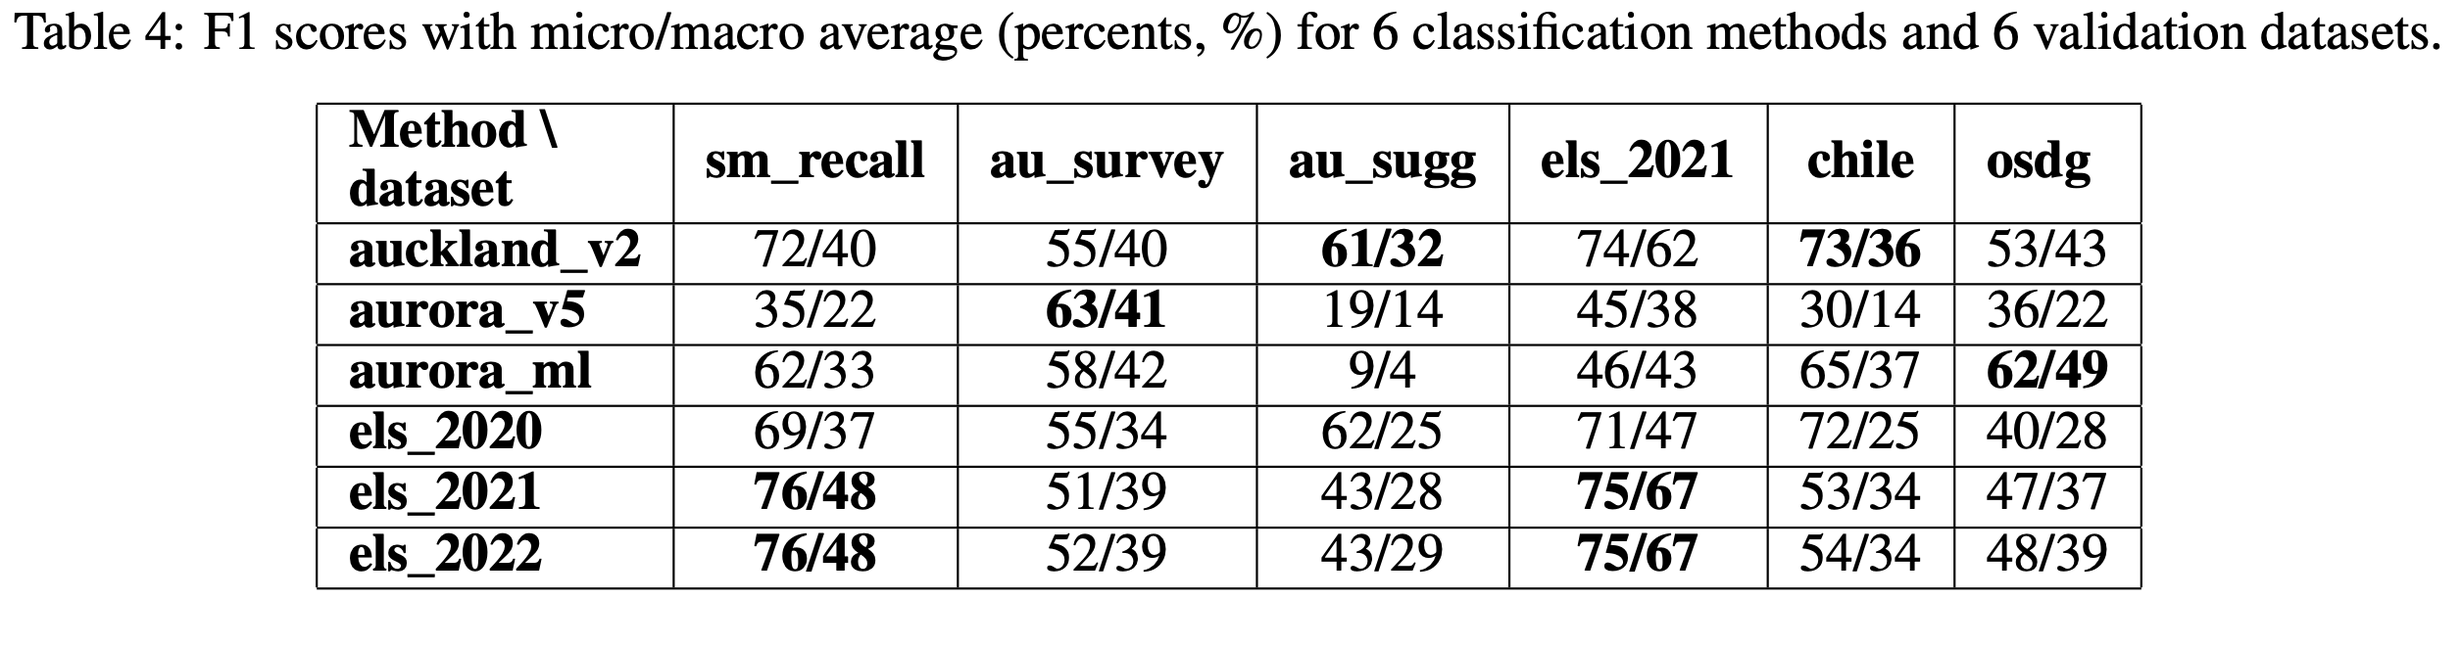
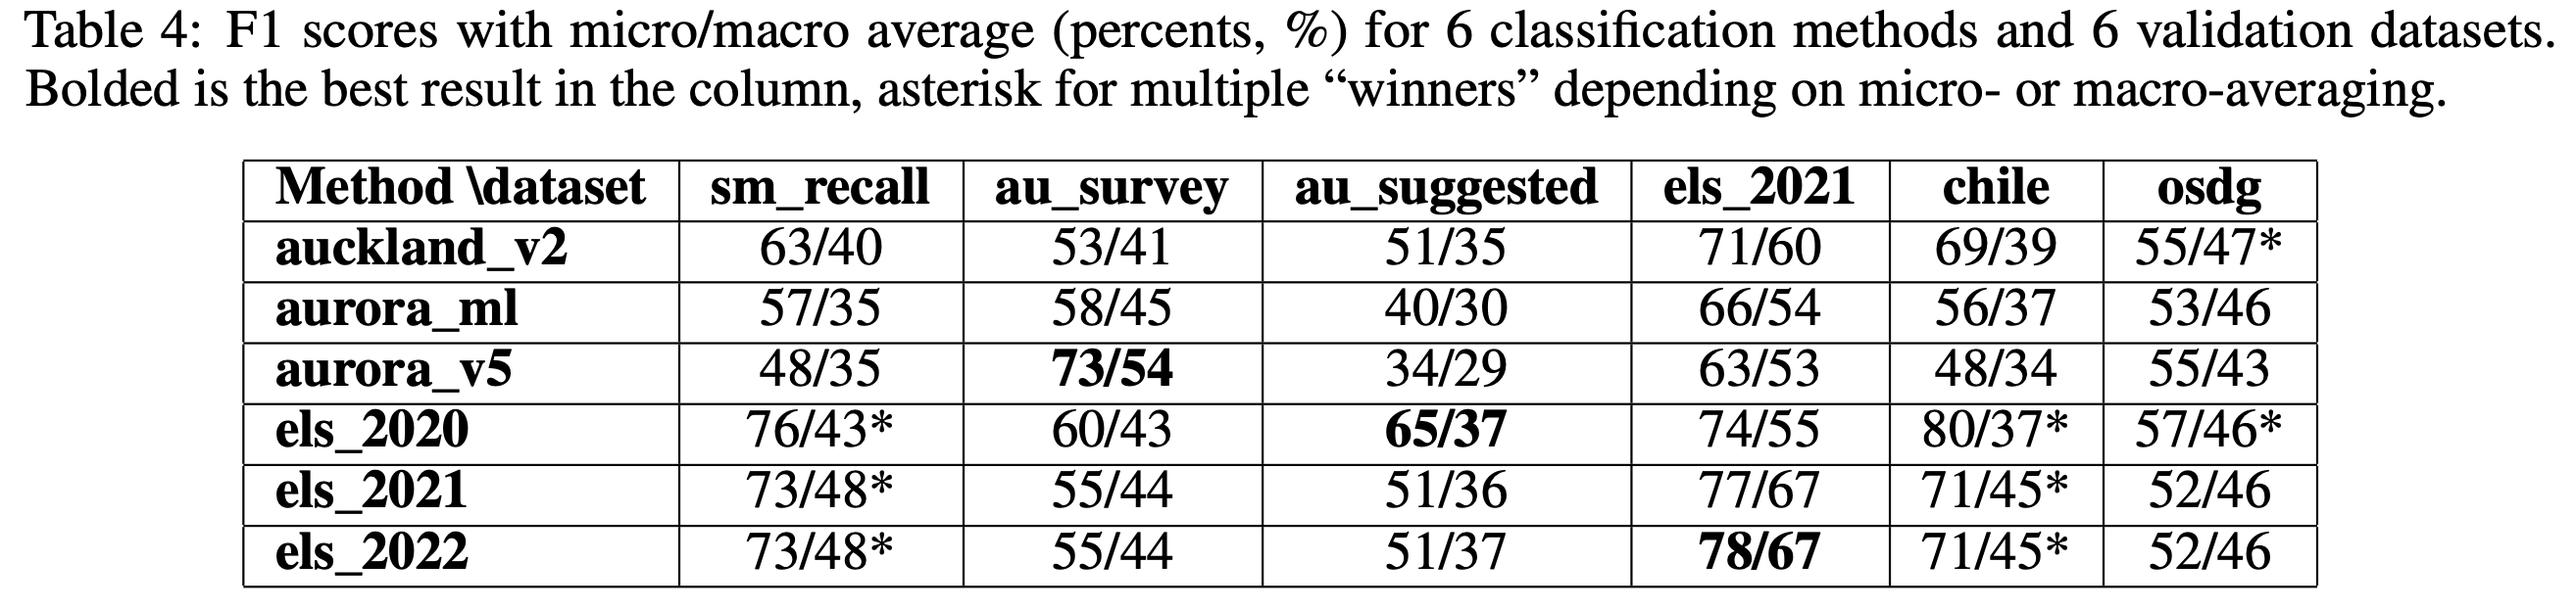
use sklearn for multi-label validation

Changed region(s): [[0.0, 0.122, 0.963, 0.9759], [0.0, 0.0, 0.994, 0.0915]]

diff --git a/sdg_mapping_queries_n_ml_benchmarks/metrics.py b/sdg_mapping_queries_n_ml_benchmarks/metrics.py
@@ -1,94 +1,56 @@
+from typing import Dict
 import pandas as pd
+from sklearn.metrics import precision_score, recall_score, f1_score
+from sklearn.preprocessing import MultiLabelBinarizer
+
+NUM_SDGS = 16
 
 
-def calc_metrics_per_sdg(
-    query_df: pd.DataFrame,
-    val_df: pd.DataFrame,
-    num_sdgs: int = 16,
-    sdg_id_col_name: str = "sdg_id",
-) -> pd.DataFrame:
+def multilabel_metrics(query_df: pd.DataFrame, val_df: pd.DataFrame, num_labels: int = NUM_SDGS,
+                   sdg_id_col_name: str = "sdg_id",
+                   sdg_pred_col_name: str = "sdg_pred",) -> Dict[str, int]:
     """
+        Computes precision, recall, and F1 scores per SDGs, given two DataFrames:
+        one with query/Ml output, another one with "golden" annotations.
+        :param query_df: a dataframe with an `sdg_id` column and `eid` as an index
+        :param val_df: a dataframe with an `sdg_id` column and `eid` as an index
+        :param num_labels: number of SDGs under consideration
+        :param sdg_id_col_name: column name for the SDG Id
+        :return: a DataFrame with metrics
+        """
 
-    Computes precision, recall, and F1 scores per SDGs, given two DataFrames:
-    one with query/Ml output, another one with "golden" annotations.
-
-    :param query_df: a dataframe with an `sdg_id` column and `eid` as an index
-    :param val_df: a dataframe with an `sdg_id` column and `eid` as an index
-    :param num_sdgs: number of SDGs under consideration
-    :param sdg_id_col_name: column name for the SDG Id
-
-    :return: a DataFrame with metrics
-    """
-
-    prec_scores, recall_scores, f1_scores, supports = [], [], [], []
-
-    # we consider only those EIDs that are present in the current
-    # validation set
+    # take only those IDs with prediction that are present in the validation set
     query_map = query_df[query_df.index.isin(val_df.index)]
 
-    for sdg_id in range(1, num_sdgs + 1):
+    # group predictions by ID and collect a list of predicted Goals per ID
+    pred_grouped = pd.DataFrame(query_map.groupby(query_map.index)[sdg_id_col_name].apply(list)) \
+        .rename(columns={sdg_id_col_name: sdg_pred_col_name})
 
-        # select IDs for the current sdg_id
-        query_ids = query_map[query_map[sdg_id_col_name] == sdg_id].index
-        val_ids = val_df.loc[val_df[sdg_id_col_name] == sdg_id].index
-        overlap = set(query_ids).intersection(val_ids)
+    # group labels by ID and collect a list of labels per ID
+    labels_qrouped = pd.DataFrame(val_df.groupby(val_df.index)[sdg_id_col_name].apply(list))
 
-        # support – is the number of papers from the validation set
-        # that are captured by the queries
-        support = len(overlap)
+    # collect both in a same DataFrame
+    pred_df = pred_grouped.join(labels_qrouped, how='inner')
 
-        # precision – is the share of papers from the query set
-        # that are classified into the same SDG as in the validation set
-        precision = len(overlap) / len(query_ids) if len(query_ids) else 0
+    # binarize labels and compute multi-label metrics
+    mlb = MultiLabelBinarizer(classes=range(num_labels + 1))
+    binarized_targets = mlb.fit_transform(pred_df[sdg_id_col_name])
+    binarized_preds = mlb.transform(pred_df[sdg_pred_col_name])
 
-        # recall – is the share of papers from the validation set
-        # that are classified into the same SDG by the queries
-        recall = len(overlap) / len(val_ids) if len(val_ids) else 0
+    res_df = {
+        'precision_micro': precision_score(y_true=binarized_targets,
+                                           y_pred=binarized_preds, average='micro'),
+        'precision_macro': precision_score(y_true=binarized_targets,
+                                           y_pred=binarized_preds, average='macro'),
+        'recall_micro': recall_score(y_true=binarized_targets,
+                                     y_pred=binarized_preds, average='micro'),
+        'recall_macro': recall_score(y_true=binarized_targets,
+                                     y_pred=binarized_preds, average='macro'),
+        'f1_micro': f1_score(y_true=binarized_targets,
+                             y_pred=binarized_preds, average='micro'),
+        'f1_macro': f1_score(y_true=binarized_targets,
+                             y_pred=binarized_preds, average='macro'),
 
-        # F1 score is the harmonic mean of precision and recall
-        f1_score = (
-            2 * precision * recall / (precision + recall)
-            if (precision and recall)
-            else 0
-        )
+    }
 
-        # add metrics for the current SDG id
-        prec_scores.append(precision)
-        recall_scores.append(recall)
-        f1_scores.append(f1_score)
-        supports.append(support)
-
-    # construct the final DataFrame
-    res_df = pd.DataFrame(
-        {
-            "precision": prec_scores,
-            "recall": recall_scores,
-            "f1": f1_scores,
-            "support": supports,
-        },
-        index=range(1, num_sdgs + 1),
-    )
     return res_df
-
-
-def micro_average(metric_df, metric_col_name="precision", weight_col_name="support"):
-    """
-
-    :param metric_df: output of the `calc_metrics_per_sdg` function
-    :param: weight_col_name: column name for the number of observations
-    :param metric_col_name: either "precision", "recall", or "f1"
-    :return: a micro-averaged value of the metric
-    """
-    return (metric_df[metric_col_name] * metric_df[weight_col_name]).sum() / metric_df[
-        weight_col_name
-    ].sum()
-
-
-def macro_average(metric_df, metric_col_name="precision"):
-    """
-
-    :param metric_df: output of the `calc_metrics_per_sdg` function
-    :param metric_col_name: either "precision", "recall", or "f1"
-    :return: a macro-averaged value of the metric
-    """
-    return metric_df[metric_col_name].mean()

diff --git a/sdg_mapping_queries_n_ml_benchmarks/validate_query_output_vs_val_set.py b/sdg_mapping_queries_n_ml_benchmarks/validate_query_output_vs_val_set.py
@@ -1,8 +1,8 @@
 import argparse
 from typing import Tuple
-
+from pprint import pprint
 import pandas as pd
-from metrics import calc_metrics_per_sdg, macro_average, micro_average
+from metrics import multilabel_metrics
 
 
 def parse_args() -> argparse.Namespace:
@@ -11,7 +11,7 @@ def parse_args() -> argparse.Namespace:
     :return: argparse.Namespace object
     """
     parser = argparse.ArgumentParser(
-        description="Validate SDg queries/ML output with an evaluation dataset."
+        description="Validate SDG queries/ML output with an evaluation dataset."
     )
     parser.add_argument(
         "--path_to_query_output",
@@ -56,23 +56,6 @@ def read_data(
     return query_mapping_df, val_set_df
 
 
-def print_results(metric_df: pd.DataFrame) -> None:
-    """
-    Reports the results, per SDG, and also with micro- and macro-averaging.
-    :param metric_df: output of the `calc_metrics_per_sdg` function
-    :return: None
-    """
-    print(f"Scores by SDG:\n{metric_df}")
-
-    for metric in ["precision", "recall", "f1"]:
-        print(
-            f"Micro-average {metric} = {micro_average(metric_df=metric_df, metric_col_name=metric):.3f}"
-        )
-        print(
-            f"Macro-average {metric} = {macro_average(metric_df=metric_df, metric_col_name=metric):.3f}"
-        )
-
-
 def main() -> None:
 
     args = parse_args()
@@ -82,9 +65,9 @@ def main() -> None:
         index_col_name=args.index_col_name,
     )
 
-    metric_df = calc_metrics_per_sdg(query_df=query_mapping_df, val_df=val_set_df)
+    metric_df = multilabel_metrics(query_df=query_mapping_df, val_df=val_set_df)
 
-    print_results(metric_df=metric_df)
+    pprint(metric_df)
 
 
 if __name__ == "__main__":

diff --git a/README.md b/README.md
@@ -21,13 +21,14 @@ poetry run python sdg_mapping_queries_n_ml_benchmarks/validate_query_output_vs_v
 This will print precision, recall, F1 by SDGs along with their micro- and macro-averaged values:
 
 ```
-# scores by SDG are ommitted
-Micro-average precision = 0.742
-Macro-average precision = 0.631
-Micro-average recall = 0.787
-Macro-average recall = 0.754
-Micro-average f1 = 0.753
-Macro-average f1 = 0.671
+{
+ 'f1_macro': 0.6720051335779433,
+ 'f1_micro': 0.7751455531017868,
+ 'precision_macro': 0.5943059123378011,
+ 'precision_micro': 0.6870106761565836,
+ 'recall_macro': 0.8053484586016316,
+ 'recall_micro': 0.8892215568862275
+}
 ```
 
-The last 2 lines stand for the values presented in Table 4 of the paper: micro- and macro-averaged F1 scores. 
+The first 2 lines stand for the values presented in Table 4 of the paper: micro- and macro-averaged F1 scores. 
